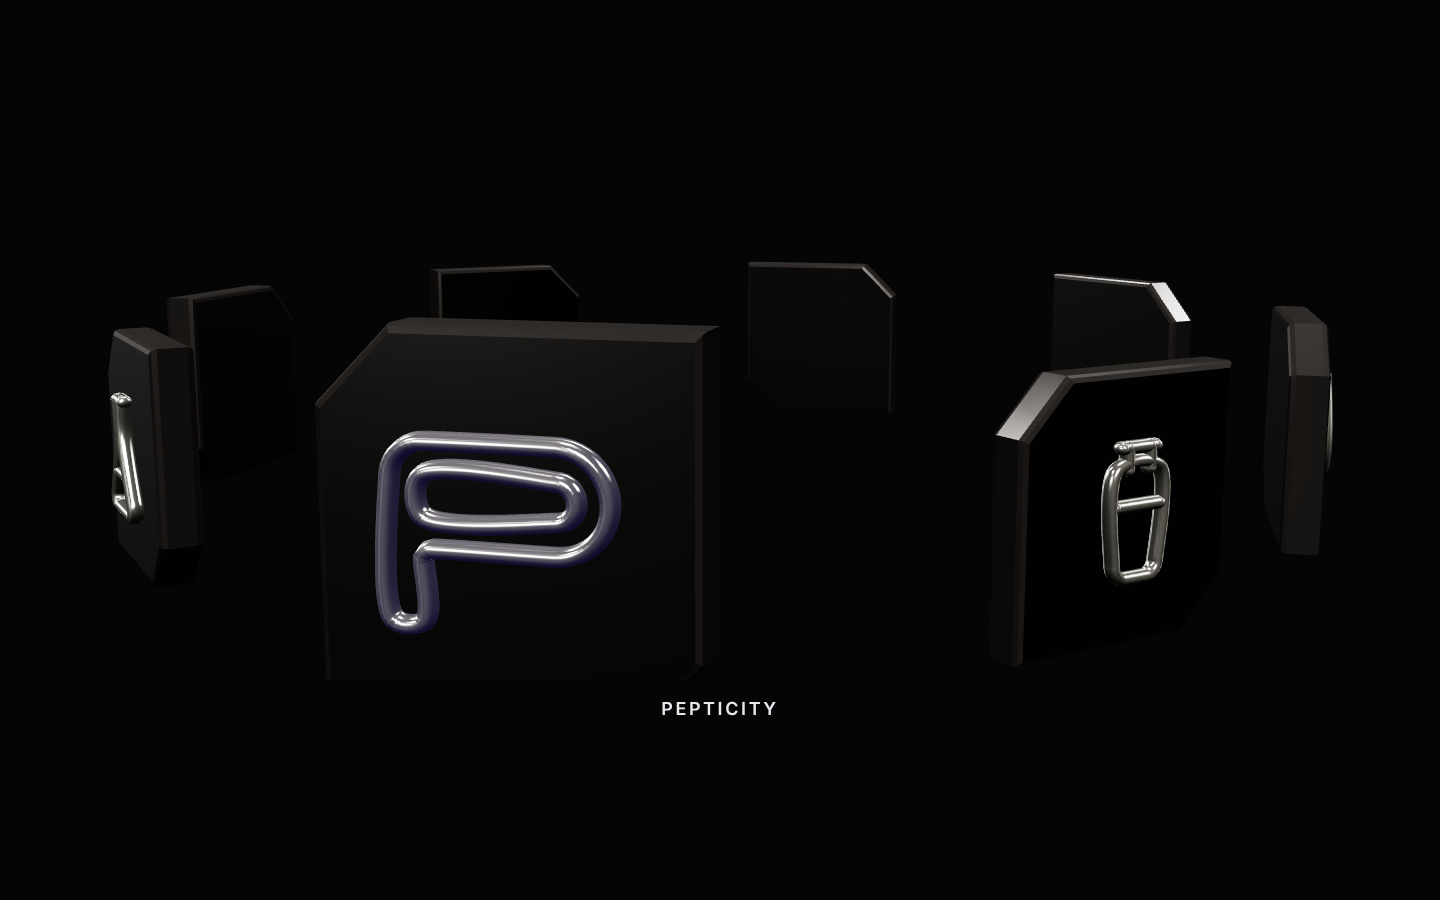
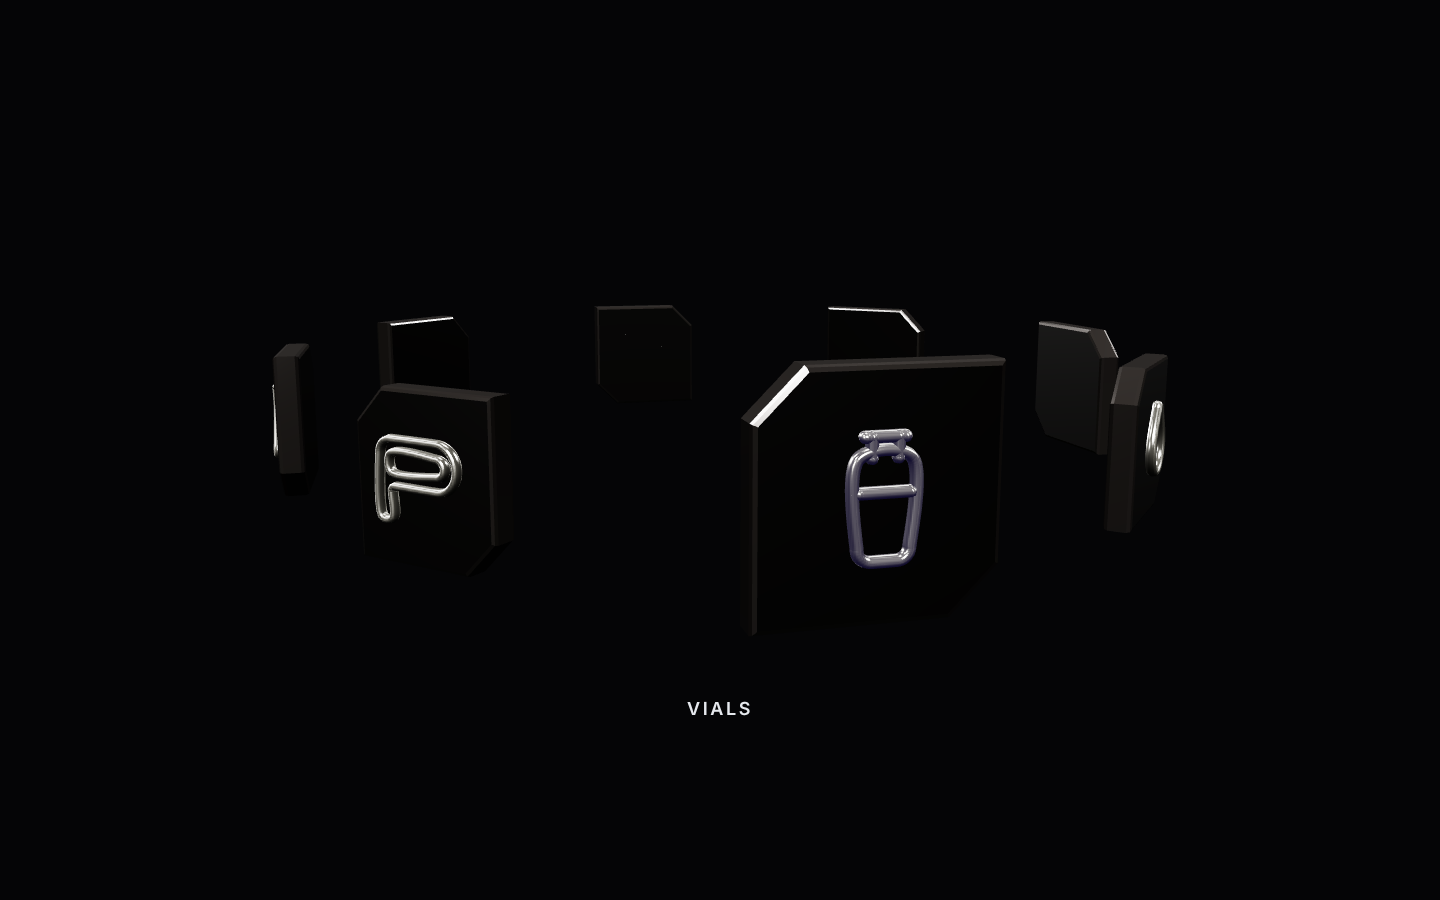
fix(gp-sample): rim positioning, octagon bezel, tighter hero; rev-2 proof screenshots
Claude-Session: https://claude.ai/code/session_01SMNC3WRM5RZprencfzVJwE

diff --git a/sites/gp-sample/index.html b/sites/gp-sample/index.html
@@ -78,11 +78,12 @@ h1,h2,h3{margin:0;text-transform:uppercase}
 .oct{--cx:26px;--cy:14px;clip-path:polygon(var(--cx) 0,calc(100% - var(--cx)) 0,100% var(--cy),100% calc(100% - var(--cy)),calc(100% - var(--cx)) 100%,var(--cx) 100%,0 calc(100% - var(--cy)),0 var(--cy))}
 .card-oct{--cx:30px;--cy:30px;clip-path:polygon(var(--cx) 0,calc(100% - var(--cx)) 0,100% var(--cy),100% calc(100% - var(--cy)),calc(100% - var(--cx)) 100%,var(--cx) 100%,0 calc(100% - var(--cy)),0 var(--cy))}
 svg.rim{position:absolute;inset:0;width:100%;height:100%;z-index:6;pointer-events:none;overflow:visible}
+.btn.oct>svg.rim,.card-oct>svg.rim{position:absolute;inset:0;width:100%;height:100%;z-index:6}
 
 /* ---------- hero layout ---------- */
-.hero{position:relative;z-index:3;min-height:100vh;min-height:100svh;display:grid;grid-template-columns:repeat(12,minmax(0,1fr));grid-template-rows:auto auto 1fr;column-gap:24px;max-width:1360px;margin:0 auto;padding:104px 32px 56px}
-.word{grid-column:1/-1;position:relative;height:clamp(110px,15.5vw,222px);translate:0 calc(var(--sy,0) * .05px)}
-.tag{grid-column:1/6;height:clamp(34px,3.6vw,50px);margin:10px 0 18px;position:relative;width:min(100%,390px);translate:0 calc(var(--sy,0) * .03px)}
+.hero{position:relative;z-index:3;min-height:100vh;min-height:100svh;display:grid;grid-template-columns:repeat(12,minmax(0,1fr));grid-template-rows:auto auto 1fr;column-gap:24px;max-width:1360px;margin:0 auto;padding:92px 32px 40px}
+.word{grid-column:1/-1;position:relative;height:clamp(100px,13vw,190px);translate:0 calc(var(--sy,0) * .05px)}
+.tag{grid-column:1/6;height:clamp(34px,3.6vw,50px);margin:4px 0 12px;position:relative;width:min(100%,390px);translate:0 calc(var(--sy,0) * .03px)}
 .offer{grid-column:1/7;grid-row:3;align-self:start;position:relative}
 .stage{grid-column:8/12;grid-row:2/4;position:relative;min-height:400px;display:grid;place-items:center;translate:0 calc(var(--sy,0) * -.1px)}
 .vial-wrap{position:relative;width:min(100%,360px);translate:calc(var(--px,0) * 14px) calc(var(--py,0) * 8px);animation:vrise 1.5s .35s var(--ease) both}
@@ -93,7 +94,7 @@ svg.rim{position:absolute;inset:0;width:100%;height:100%;z-index:6;pointer-event
 @media (prefers-reduced-motion:reduce){.vial-wrap,.vial{animation:none}}
 
 /* HOV-41 chrome bezel host (the module adds its own bezel + glare) */
-.bez{position:relative;padding:16px}
+.bez{position:relative;padding:16px;--hov41-cut:48px;--hov41-pad:16px;--hov41-aspect:880/1168}
 
 /* ---------- GLASS: GLS-110 made see-through and octagonal ---------- */
 .offer.apx-gls110{border-radius:0;background:linear-gradient(160deg,rgba(255,255,255,.075),rgba(255,255,255,.012)),rgba(255,255,255,.04);-webkit-backdrop-filter:blur(16px) saturate(150%);backdrop-filter:blur(16px) saturate(150%)}
@@ -101,9 +102,9 @@ svg.rim{position:absolute;inset:0;width:100%;height:100%;z-index:6;pointer-event
 .offer .apx-gls110__mesh{opacity:.08}
 .offer .apx-gls110__rim{opacity:0}
 .offer::after{content:"";position:absolute;inset:0;z-index:1;pointer-events:none;background:radial-gradient(320px 240px at var(--lx,28%) var(--ly,30%),color-mix(in srgb,var(--p-accent) 36%,transparent),color-mix(in srgb,var(--p-gold-4) 10%,transparent) 55%,transparent 75%);mix-blend-mode:screen;opacity:.9;transition:opacity .4s}
-.offer{padding:clamp(28px,3.2vw,48px) clamp(26px,3.4vw,52px);display:flex;flex-direction:column;gap:14px}
+.offer{padding:clamp(24px,2.5vw,38px) clamp(26px,3.2vw,50px);display:flex;flex-direction:column;gap:12px}
 .eyebrow{font:500 12px/1 var(--body);letter-spacing:.32em;text-transform:uppercase;color:var(--p-gold-4)}
-.offer h2{font:400 clamp(34px,4.6vw,66px)/1.0 var(--display);letter-spacing:.05em}
+.offer h2{font:400 clamp(32px,4vw,58px)/1.0 var(--display);letter-spacing:.05em}
 .offer p{margin:0;max-width:38ch;color:#d3d7dd}
 .offer p small{display:block;margin-top:10px;font-size:13px;color:var(--p-muted);letter-spacing:.02em}
 .acts{display:flex;flex-wrap:wrap;gap:16px;margin-top:10px}

diff --git a/sites/gp-sample/template.html b/sites/gp-sample/template.html
@@ -78,11 +78,12 @@ h1,h2,h3{margin:0;text-transform:uppercase}
 .oct{--cx:26px;--cy:14px;clip-path:polygon(var(--cx) 0,calc(100% - var(--cx)) 0,100% var(--cy),100% calc(100% - var(--cy)),calc(100% - var(--cx)) 100%,var(--cx) 100%,0 calc(100% - var(--cy)),0 var(--cy))}
 .card-oct{--cx:30px;--cy:30px;clip-path:polygon(var(--cx) 0,calc(100% - var(--cx)) 0,100% var(--cy),100% calc(100% - var(--cy)),calc(100% - var(--cx)) 100%,var(--cx) 100%,0 calc(100% - var(--cy)),0 var(--cy))}
 svg.rim{position:absolute;inset:0;width:100%;height:100%;z-index:6;pointer-events:none;overflow:visible}
+.btn.oct>svg.rim,.card-oct>svg.rim{position:absolute;inset:0;width:100%;height:100%;z-index:6}
 
 /* ---------- hero layout ---------- */
-.hero{position:relative;z-index:3;min-height:100vh;min-height:100svh;display:grid;grid-template-columns:repeat(12,minmax(0,1fr));grid-template-rows:auto auto 1fr;column-gap:24px;max-width:1360px;margin:0 auto;padding:104px 32px 56px}
-.word{grid-column:1/-1;position:relative;height:clamp(110px,15.5vw,222px);translate:0 calc(var(--sy,0) * .05px)}
-.tag{grid-column:1/6;height:clamp(34px,3.6vw,50px);margin:10px 0 18px;position:relative;width:min(100%,390px);translate:0 calc(var(--sy,0) * .03px)}
+.hero{position:relative;z-index:3;min-height:100vh;min-height:100svh;display:grid;grid-template-columns:repeat(12,minmax(0,1fr));grid-template-rows:auto auto 1fr;column-gap:24px;max-width:1360px;margin:0 auto;padding:92px 32px 40px}
+.word{grid-column:1/-1;position:relative;height:clamp(100px,13vw,190px);translate:0 calc(var(--sy,0) * .05px)}
+.tag{grid-column:1/6;height:clamp(34px,3.6vw,50px);margin:4px 0 12px;position:relative;width:min(100%,390px);translate:0 calc(var(--sy,0) * .03px)}
 .offer{grid-column:1/7;grid-row:3;align-self:start;position:relative}
 .stage{grid-column:8/12;grid-row:2/4;position:relative;min-height:400px;display:grid;place-items:center;translate:0 calc(var(--sy,0) * -.1px)}
 .vial-wrap{position:relative;width:min(100%,360px);translate:calc(var(--px,0) * 14px) calc(var(--py,0) * 8px);animation:vrise 1.5s .35s var(--ease) both}
@@ -93,7 +94,7 @@ svg.rim{position:absolute;inset:0;width:100%;height:100%;z-index:6;pointer-event
 @media (prefers-reduced-motion:reduce){.vial-wrap,.vial{animation:none}}
 
 /* HOV-41 chrome bezel host (the module adds its own bezel + glare) */
-.bez{position:relative;padding:16px}
+.bez{position:relative;padding:16px;--hov41-cut:48px;--hov41-pad:16px;--hov41-aspect:880/1168}
 
 /* ---------- GLASS: GLS-110 made see-through and octagonal ---------- */
 .offer.apx-gls110{border-radius:0;background:linear-gradient(160deg,rgba(255,255,255,.075),rgba(255,255,255,.012)),rgba(255,255,255,.04);-webkit-backdrop-filter:blur(16px) saturate(150%);backdrop-filter:blur(16px) saturate(150%)}
@@ -101,9 +102,9 @@ svg.rim{position:absolute;inset:0;width:100%;height:100%;z-index:6;pointer-event
 .offer .apx-gls110__mesh{opacity:.08}
 .offer .apx-gls110__rim{opacity:0}
 .offer::after{content:"";position:absolute;inset:0;z-index:1;pointer-events:none;background:radial-gradient(320px 240px at var(--lx,28%) var(--ly,30%),color-mix(in srgb,var(--p-accent) 36%,transparent),color-mix(in srgb,var(--p-gold-4) 10%,transparent) 55%,transparent 75%);mix-blend-mode:screen;opacity:.9;transition:opacity .4s}
-.offer{padding:clamp(28px,3.2vw,48px) clamp(26px,3.4vw,52px);display:flex;flex-direction:column;gap:14px}
+.offer{padding:clamp(24px,2.5vw,38px) clamp(26px,3.2vw,50px);display:flex;flex-direction:column;gap:12px}
 .eyebrow{font:500 12px/1 var(--body);letter-spacing:.32em;text-transform:uppercase;color:var(--p-gold-4)}
-.offer h2{font:400 clamp(34px,4.6vw,66px)/1.0 var(--display);letter-spacing:.05em}
+.offer h2{font:400 clamp(32px,4vw,58px)/1.0 var(--display);letter-spacing:.05em}
 .offer p{margin:0;max-width:38ch;color:#d3d7dd}
 .offer p small{display:block;margin-top:10px;font-size:13px;color:var(--p-muted);letter-spacing:.02em}
 .acts{display:flex;flex-wrap:wrap;gap:16px;margin-top:10px}

diff --git a/sites/gp-sample/fx/obj09.js b/sites/gp-sample/fx/obj09.js
@@ -101,7 +101,7 @@ export function mountObj09(el, { items, colors, onFront, tileScale } = {}) {
   const list = (items || []).slice();
   const N = Math.max(1, list.length), RR = 4.6, STEP = Math.PI * 2 / N;
   // original ring has 33 tiles; with fewer items tiles grow so the band keeps its density
-  const TK = tileScale || Math.min(2.2, Math.sqrt(33 / N));
+  const TK = tileScale || Math.min(1.8, Math.sqrt(33 / N));
   const tiles = list.map((it, i) => {
     const g = new THREE.Group();
     const ig = iconGeometry(it.d); geos.push(ig);
@@ -149,7 +149,7 @@ export function mountObj09(el, { items, colors, onFront, tileScale } = {}) {
     renderer.setSize(w, h, false);
     camera.aspect = w / h; camera.updateProjectionMatrix();
     // original canvas is full-viewport; here the stage is shorter, so zoom (no perspective change) to fill it
-    camera.zoom = Math.min(1.7, camera.aspect * 0.7); camera.updateProjectionMatrix();
+    camera.zoom = Math.min(1.25, camera.aspect * 0.6); camera.updateProjectionMatrix();
   }
   const ro = new ResizeObserver(resize); ro.observe(el); resize();
 

diff --git a/sites/gp-sample/fx/hov41.css b/sites/gp-sample/fx/hov41.css
@@ -3,9 +3,9 @@
    Tokens (set by mountHov41 from `colors`): --hov41-m0..m5. Own knobs:
    --hov41-cut  chamfer size (octagon) — default 18px; set 0px for no chamfer
    --hov41-radius  original rounded corner (default 0; original was 38px; use with --hov41-cut:0px)
-   --hov41-pad  bezel thickness (original 9px)   --hov41-aspect  (original 390/760) */
+   --hov41-pad  bezel thickness (original 9px; 14px here so the metal reads at product size)   --hov41-aspect  (original 390/760) */
 .hov41{--rx:0deg;--ry:0deg;--gx:50%;--gy:30%;
-  --hov41-cut:18px;--hov41-radius:0px;--hov41-pad:9px;--hov41-aspect:390/760;
+  --hov41-cut:18px;--hov41-radius:0px;--hov41-pad:14px;--hov41-aspect:390/760;
   --hov41-m0:#f6f8fa;--hov41-m1:#9ea8b3;--hov41-m2:#e8ecf0;--hov41-m3:#5d6670;--hov41-m4:#d9dee4;--hov41-m5:#8a939d;
   position:relative;display:block;perspective:900px;width:100%;
   filter:drop-shadow(0 30px 34px rgba(0,0,0,.62)) drop-shadow(0 0 1px rgba(0,0,0,.8))}
